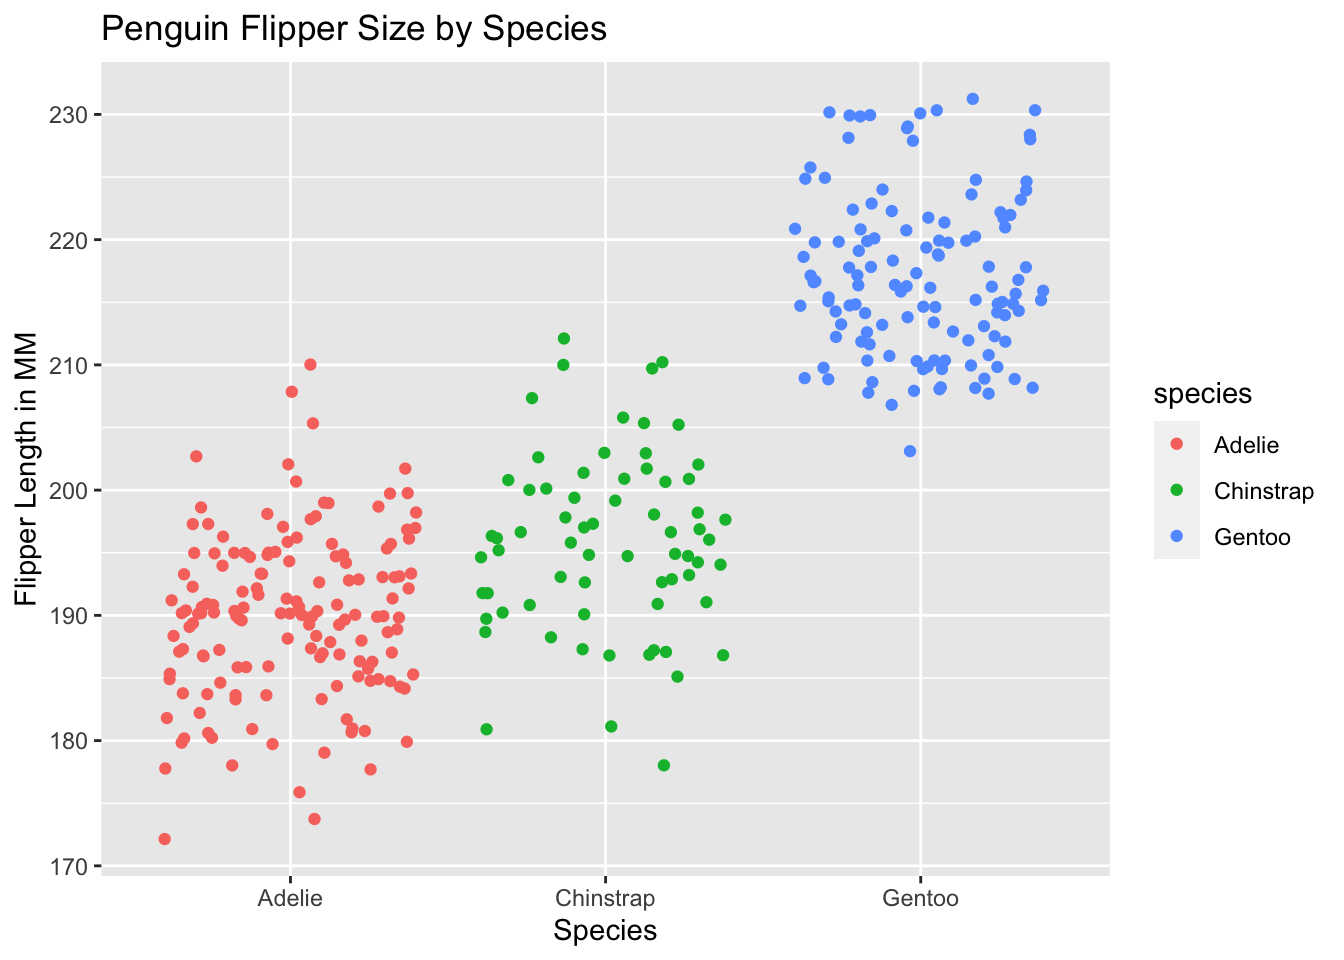
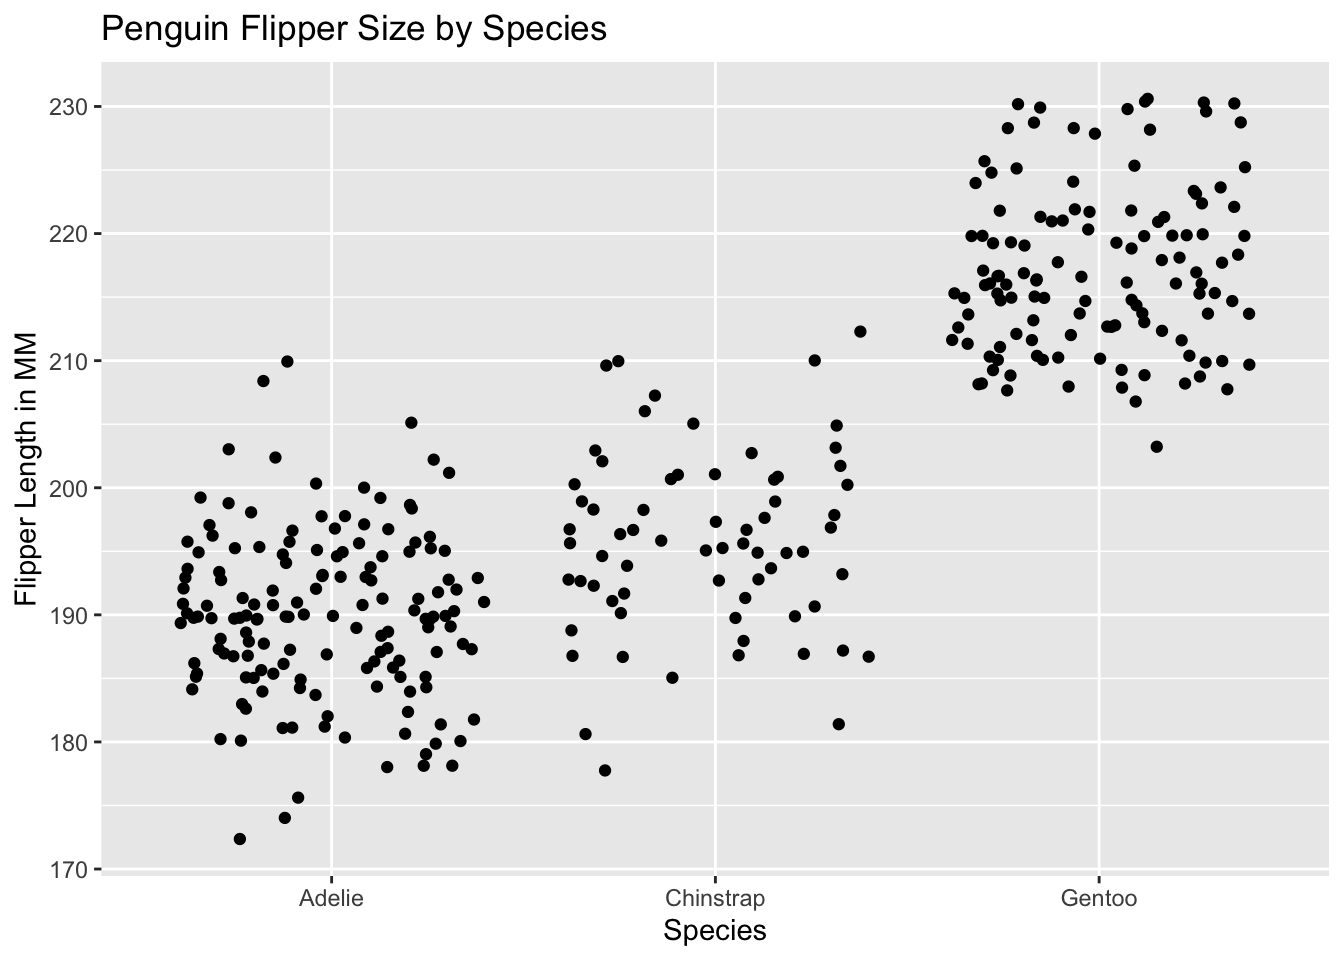
Testing committing

diff --git a/eds-212-day2-handout.html b/eds-212-day2-handout.html
@@ -151,7 +151,7 @@ pre > code.sourceCode > span > a:first-child::before { text-decoration: underlin
 </div></li>
 </ol>
 <div class="cell">
-<div class="sourceCode cell-code" id="cb12"><pre class="sourceCode r code-with-copy"><code class="sourceCode r"><span id="cb12-1"><a href="#cb12-1" aria-hidden="true" tabindex="-1"></a><span class="fu">ggplot</span>(<span class="at">data =</span> penguins, <span class="fu">aes</span>(<span class="at">x =</span> penguins<span class="sc">$</span>species, <span class="at">y =</span> penguins<span class="sc">$</span>flipper_length_mm, <span class="at">color =</span> species)) <span class="sc">+</span> <span class="fu">geom_jitter</span>() <span class="sc">+</span> <span class="fu">labs</span>(<span class="at">x =</span> <span class="st">"Species"</span>, <span class="at">y =</span> <span class="st">"Flipper Length in MM"</span>, <span class="at">title =</span> <span class="st">"Penguin Flipper Size by Species"</span>)</span></code><button title="Copy to Clipboard" class="code-copy-button"><i class="bi"></i></button></pre></div>
+<div class="sourceCode cell-code" id="cb12"><pre class="sourceCode r code-with-copy"><code class="sourceCode r"><span id="cb12-1"><a href="#cb12-1" aria-hidden="true" tabindex="-1"></a><span class="fu">ggplot</span>(<span class="at">data =</span> penguins, <span class="fu">aes</span>(<span class="at">x =</span> penguins<span class="sc">$</span>species, <span class="at">y =</span> penguins<span class="sc">$</span>flipper_length_mm)) <span class="sc">+</span> <span class="fu">geom_jitter</span>() <span class="sc">+</span> <span class="fu">labs</span>(<span class="at">x =</span> <span class="st">"Species"</span>, <span class="at">y =</span> <span class="st">"Flipper Length in MM"</span>, <span class="at">title =</span> <span class="st">"Penguin Flipper Size by Species"</span>)</span></code><button title="Copy to Clipboard" class="code-copy-button"><i class="bi"></i></button></pre></div>
 <div class="cell-output cell-output-stderr">
 <pre><code>Warning: Use of `penguins$species` is discouraged.
 ℹ Use `species` instead.</code></pre>
